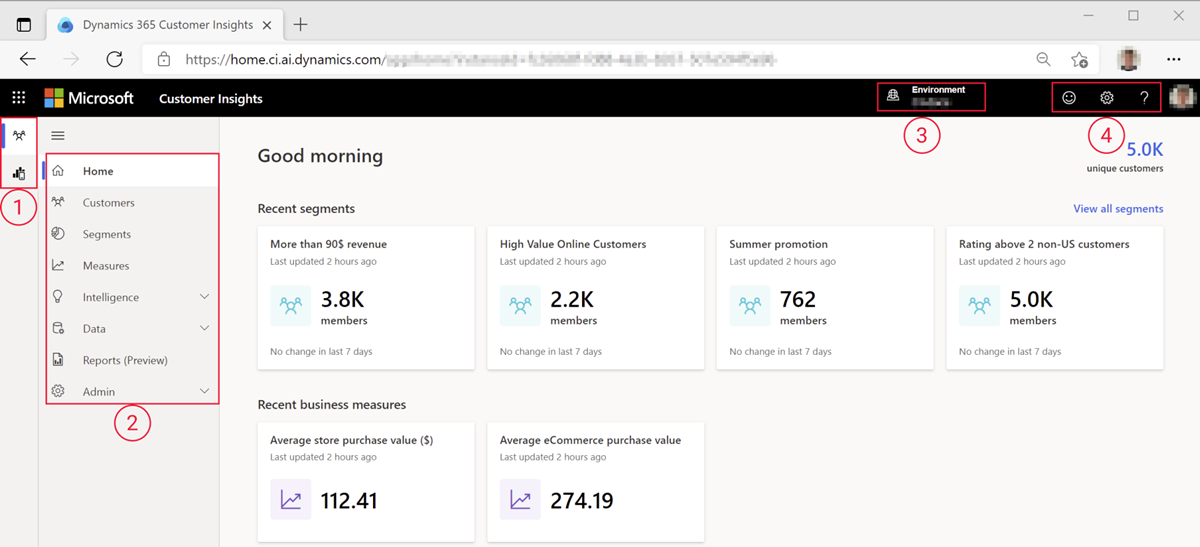
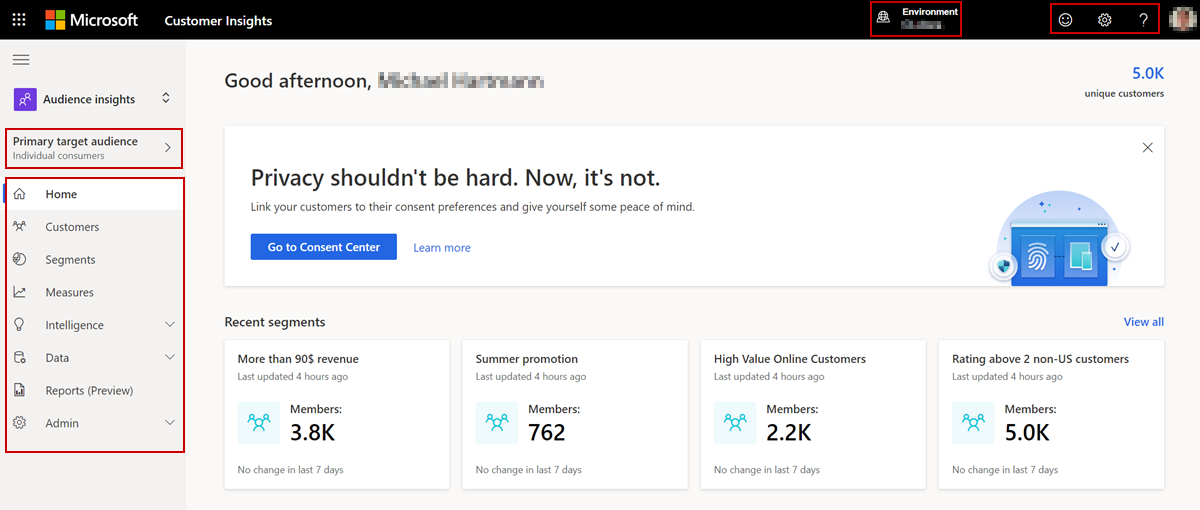
update home page screenshot

diff --git a/ci-docs/home.md b/ci-docs/home.md
@@ -1,13 +1,12 @@
 ---
 title: "Home page in Customer Insights"
 description: "Start exploring the app on the Home page."
-ms.date: 10/19/2021
+ms.date: 04/12/2022
 ms.reviewer: mhart
-
 ms.subservice: audience-insights
 ms.topic: conceptual
-author: NimrodMagen
-ms.author: nimagen
+author: wmelewong
+ms.author: wameng
 manager: shellyha
 searchScope: 
   - ci-home
@@ -22,19 +21,21 @@ The **Home** page shows an overview of segments, measures, and enrichment data (
 
 :::image type="content" source="media/home-page.png" alt-text="Screenshot of the Home screen showing sample insights.":::
 
-1 - Switch between capabilities of Customer Insights 
+Key controls in Customer Insights:
 
-2 - Use the left pane to navigate between different areas and choose the primary target audience
+- Left pane: Switch between primary target audience if you have a B2C and a B2B environment
 
-3 - Find out which environment you work in and manage environments as an administrator
+- Left pane: Navigate between different areas and choose the primary target audience
 
-4 - Specify personal settings for Customer Insights
+- Header: Change the environment you work in and manage environments as an administrator
+
+- Header: Specify personal settings for Customer Insights and get help options
 
 Now you can view the following sections in the home page:
 
 - **Recent segments** shows groups of customers based on demographic, behavioral, or transactional attributes that you've defined. [Creating segments](segments.md) helps you to group your customer base and better target your business activities.
 
-- **Recent measures** shows tiles with [key performance indicators (KPIs)](measures.md) that you've defined. For example, average likelihood of a customer to churn or the average online spend per customer.
+- **Recent business measures** shows tiles with [key performance indicators (KPIs)](measures.md) that you've defined. For example, average likelihood of a customer to churn or the average online spend per customer.
 
 - **Recent enrichments** lists results of the enrichment runs that completed recently. [Enrichments](enrichment-hub.md) add information about your customer base. For example, by understanding the interests and brands that they have affinity for.
 
